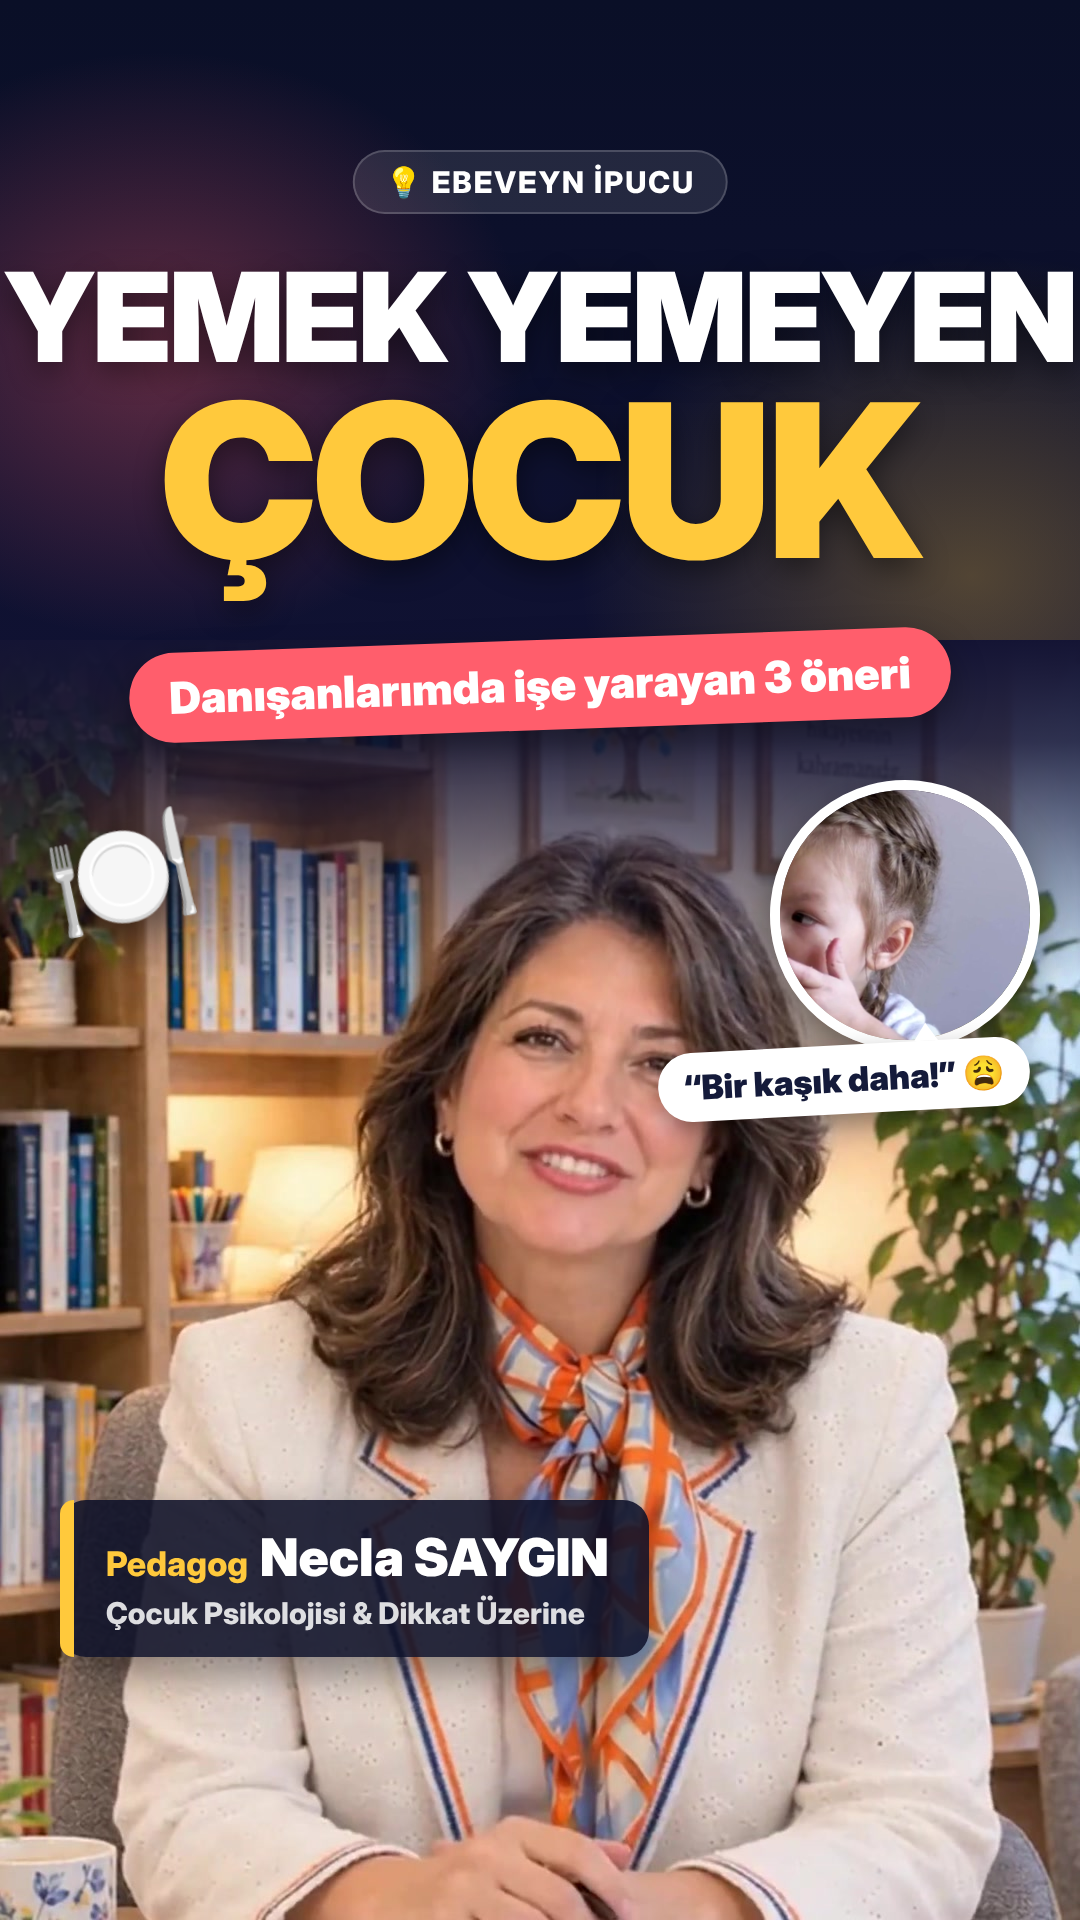
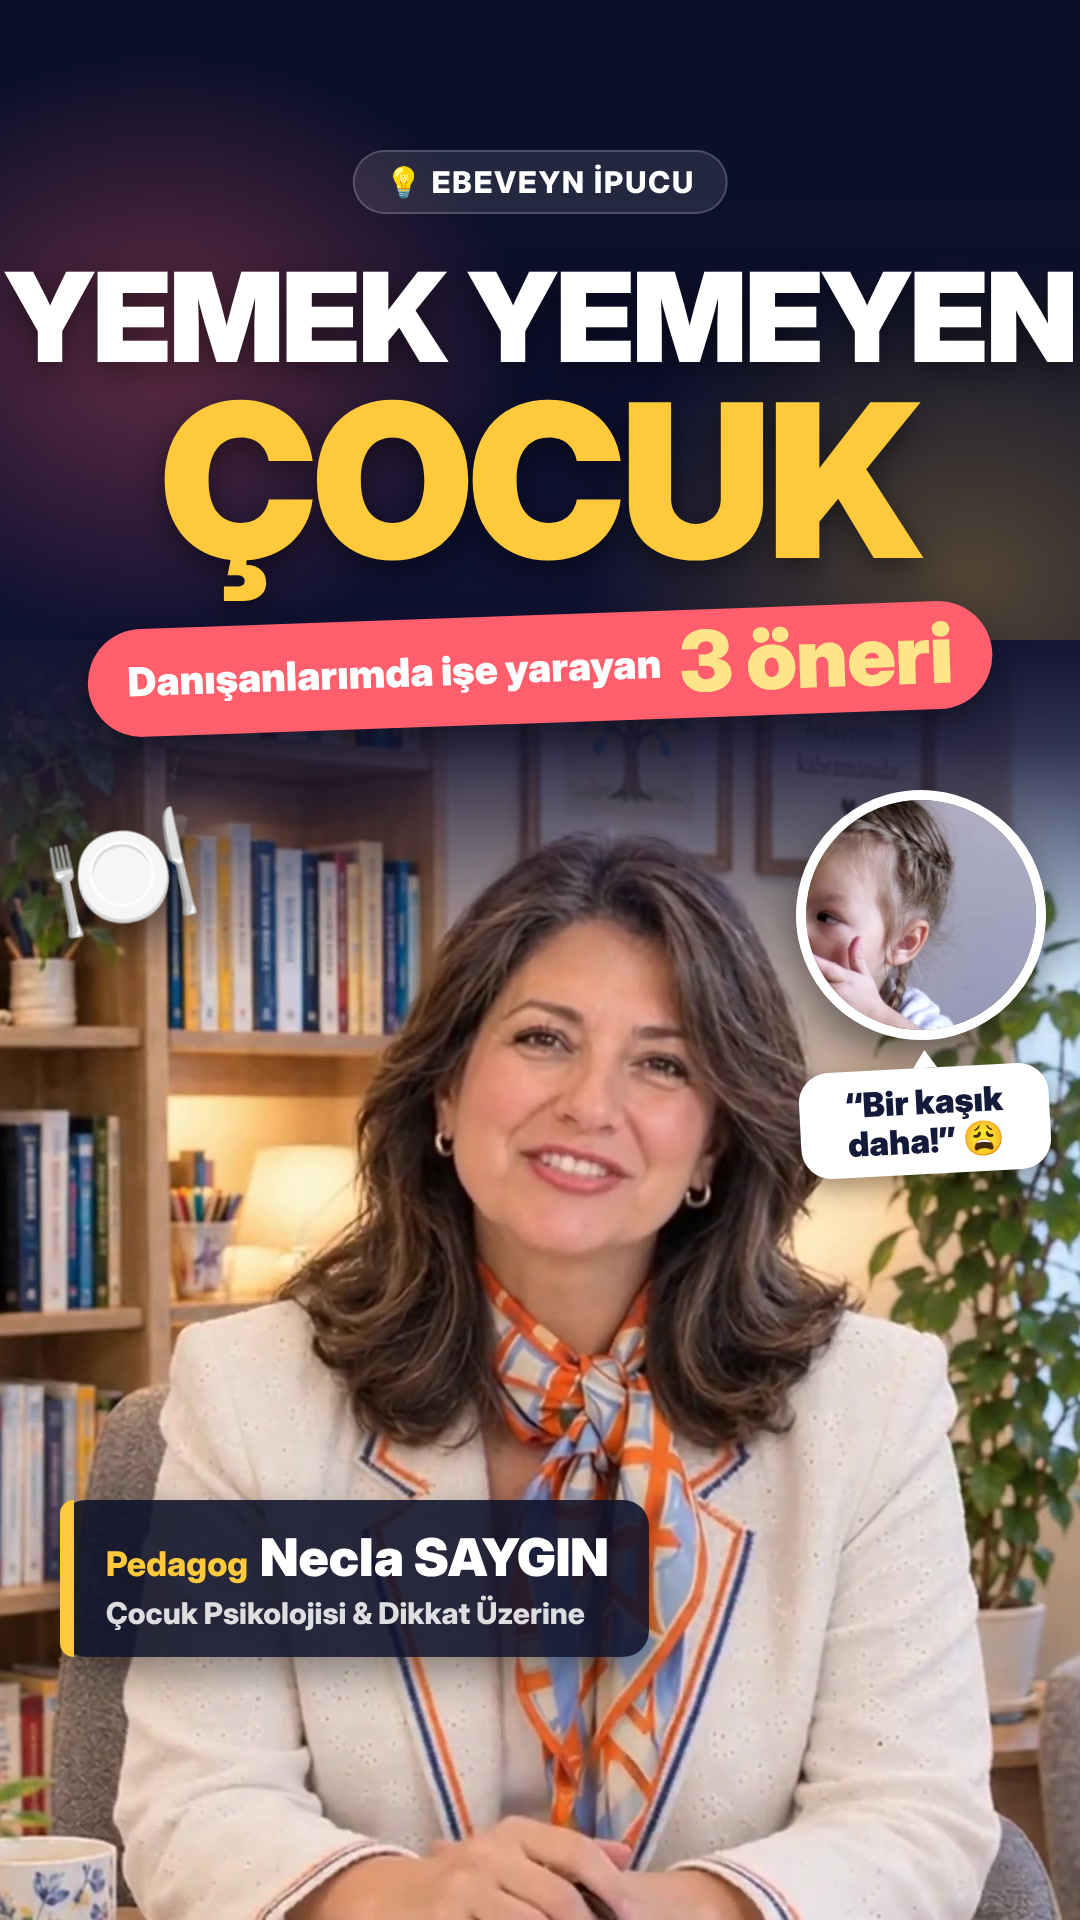
Cover: bigger '3 öneri', speech bubble moved off the face
Claude-Session: https://claude.ai/code/session_01BHEXcyRVAg9YRaDdsLjf61

Changed region(s): [[0.0611, 0.3125, 0.9167, 0.4062], [0.6111, 0.4062, 0.9778, 0.625], [0.9472, 0.4375, 0.9778, 0.5]]

diff --git a/reels/v6/cover/cover.html b/reels/v6/cover/cover.html
@@ -22,15 +22,16 @@
     text-shadow: 0 10px 30px rgba(0,0,0,0.45); }
   .l1 { font-size: 124px; line-height: 1; letter-spacing: -2px; }
   .l2 { font-size: 214px; line-height: 0.95; color: #FFC93C; letter-spacing: -4px; }
-  .sub { position: absolute; top: 640px; left: 50%; transform: translateX(-50%) rotate(-2deg);
-    background: #FF5E6C; color: #fff; font-weight: 900; font-size: 44px; padding: 18px 40px; border-radius: 60px;
-    white-space: nowrap; box-shadow: 0 14px 34px rgba(0,0,0,0.35); }
-  .sticker { position: absolute; top: 780px; right: 40px; width: 270px; height: 270px; border-radius: 50%;
+  .sub { position: absolute; top: 615px; left: 50%; transform: translateX(-50%) rotate(-2deg);
+    background: #FF5E6C; color: #fff; font-weight: 900; font-size: 40px; padding: 10px 40px 14px; border-radius: 70px;
+    white-space: nowrap; box-shadow: 0 14px 34px rgba(0,0,0,0.35); display: flex; align-items: center; gap: 18px; }
+  .sub b { font-size: 84px; line-height: 1; color: #FFE58A; letter-spacing: -1px; }
+  .sticker { position: absolute; top: 790px; right: 34px; width: 250px; height: 250px; border-radius: 50%;
     overflow: hidden; border: 10px solid #fff; box-shadow: 0 18px 40px rgba(0,0,0,0.45); transform: rotate(6deg); }
   .sticker img { width: 100%; height: 100%; object-fit: cover; }
-  .bubble { position: absolute; top: 1045px; right: 50px; background: #fff; color: #141A3A; font-weight: 900; font-size: 34px;
-    padding: 14px 26px; border-radius: 34px; box-shadow: 0 10px 26px rgba(0,0,0,0.35); transform: rotate(-3deg); white-space: nowrap; }
-  .bubble::before { content: ''; position: absolute; top: -18px; right: 90px; border: 12px solid transparent; border-bottom: 18px solid #fff; border-top: 0; }
+  .bubble { position: absolute; top: 1068px; right: 30px; width: 250px; text-align: center; background: #fff; color: #141A3A; font-weight: 900; font-size: 34px;
+    line-height: 1.15; padding: 14px 18px; border-radius: 30px; box-shadow: 0 10px 26px rgba(0,0,0,0.35); transform: rotate(-3deg); }
+  .bubble::before { content: ''; position: absolute; top: -18px; right: 110px; border: 12px solid transparent; border-bottom: 18px solid #fff; border-top: 0; }
   .plate { position: absolute; top: 800px; left: 46px; font-size: 120px; transform: rotate(-12deg); filter: drop-shadow(0 12px 20px rgba(0,0,0,0.45)); }
   .name { position: absolute; left: 60px; top: 1500px; background: rgba(12,16,40,0.88); border-radius: 26px; padding: 26px 40px 26px 46px;
     box-shadow: 0 16px 40px rgba(0,0,0,0.4); }
@@ -49,10 +50,10 @@
     <div class="l1">YEMEK YEMEYEN</div>
     <div class="l2">ÇOCUK</div>
   </div>
-  <div class="sub">Danışanlarımda işe yarayan 3 öneri</div>
+  <div class="sub">Danışanlarımda işe yarayan <b>3 öneri</b></div>
   <div class="plate">🍽</div>
   <div class="sticker"><img src="kiz_crop.jpg" alt=""></div>
-  <div class="bubble">“Bir kaşık daha!” 😩</div>
+  <div class="bubble">“Bir kaşık<br>daha!” 😩</div>
   <div class="name">
     <div class="n1"><span>Pedagog</span>Necla SAYGIN</div>
     <div class="n2">Çocuk Psikolojisi &amp; Dikkat Üzerine</div>
